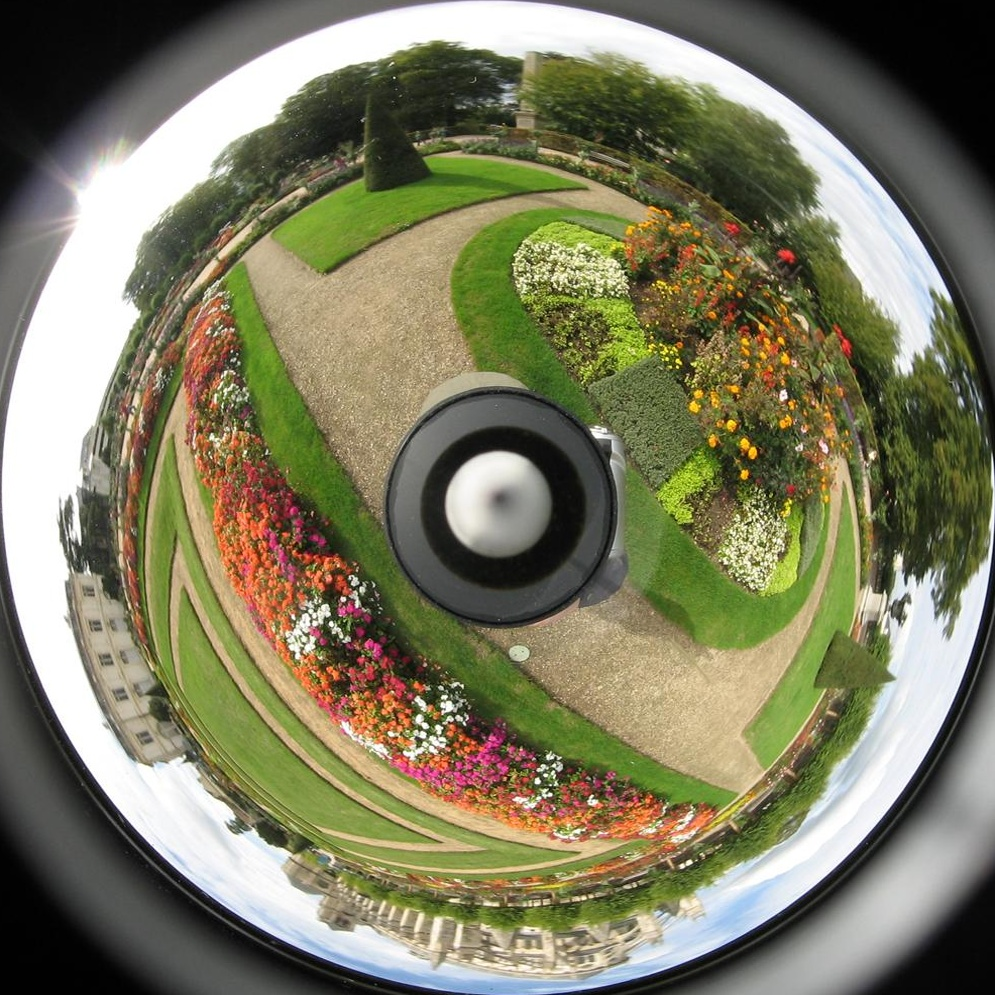
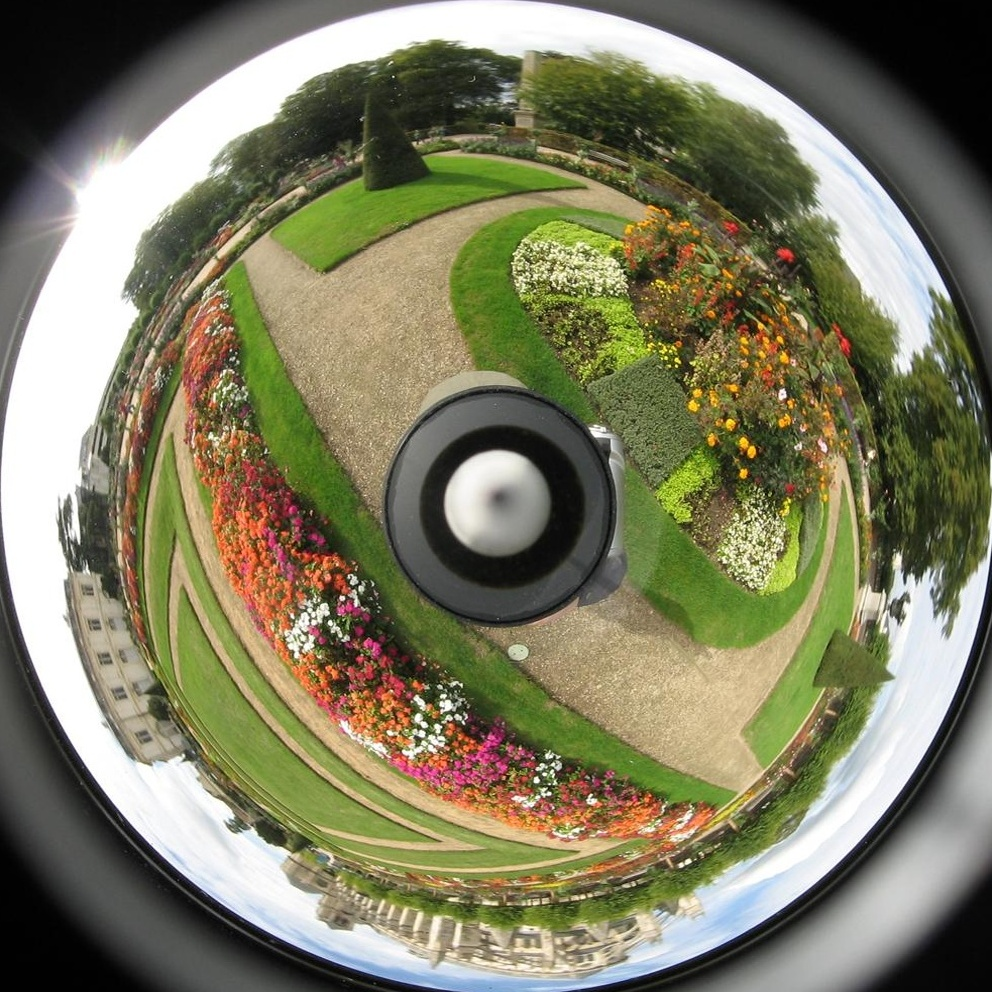
Update wasm build and UI changes

diff --git a/img_1071p.html b/img_1071p.html
@@ -15,10 +15,10 @@
         <!-- Customizable Tag -->
         <div class="title">フランス 大聖堂の庭園</div>
         <div class="description">
-            大聖堂の庭園<br>
-            フランス アルル<br>
-            Pont Van Gogh<br>
-            Arles, France
+            ラルシュヴェシェ公園<br>
+            フランス ブールジュ<br>
+            Jardin de l'Archevêché<br>
+            Bourges, France
             <ul>
             <li>表示画素：640×240、表示水平画角：140度</li>
             <li>撮影：大手明（東京都）Akira Ohte, Tokyo, Japan</li>